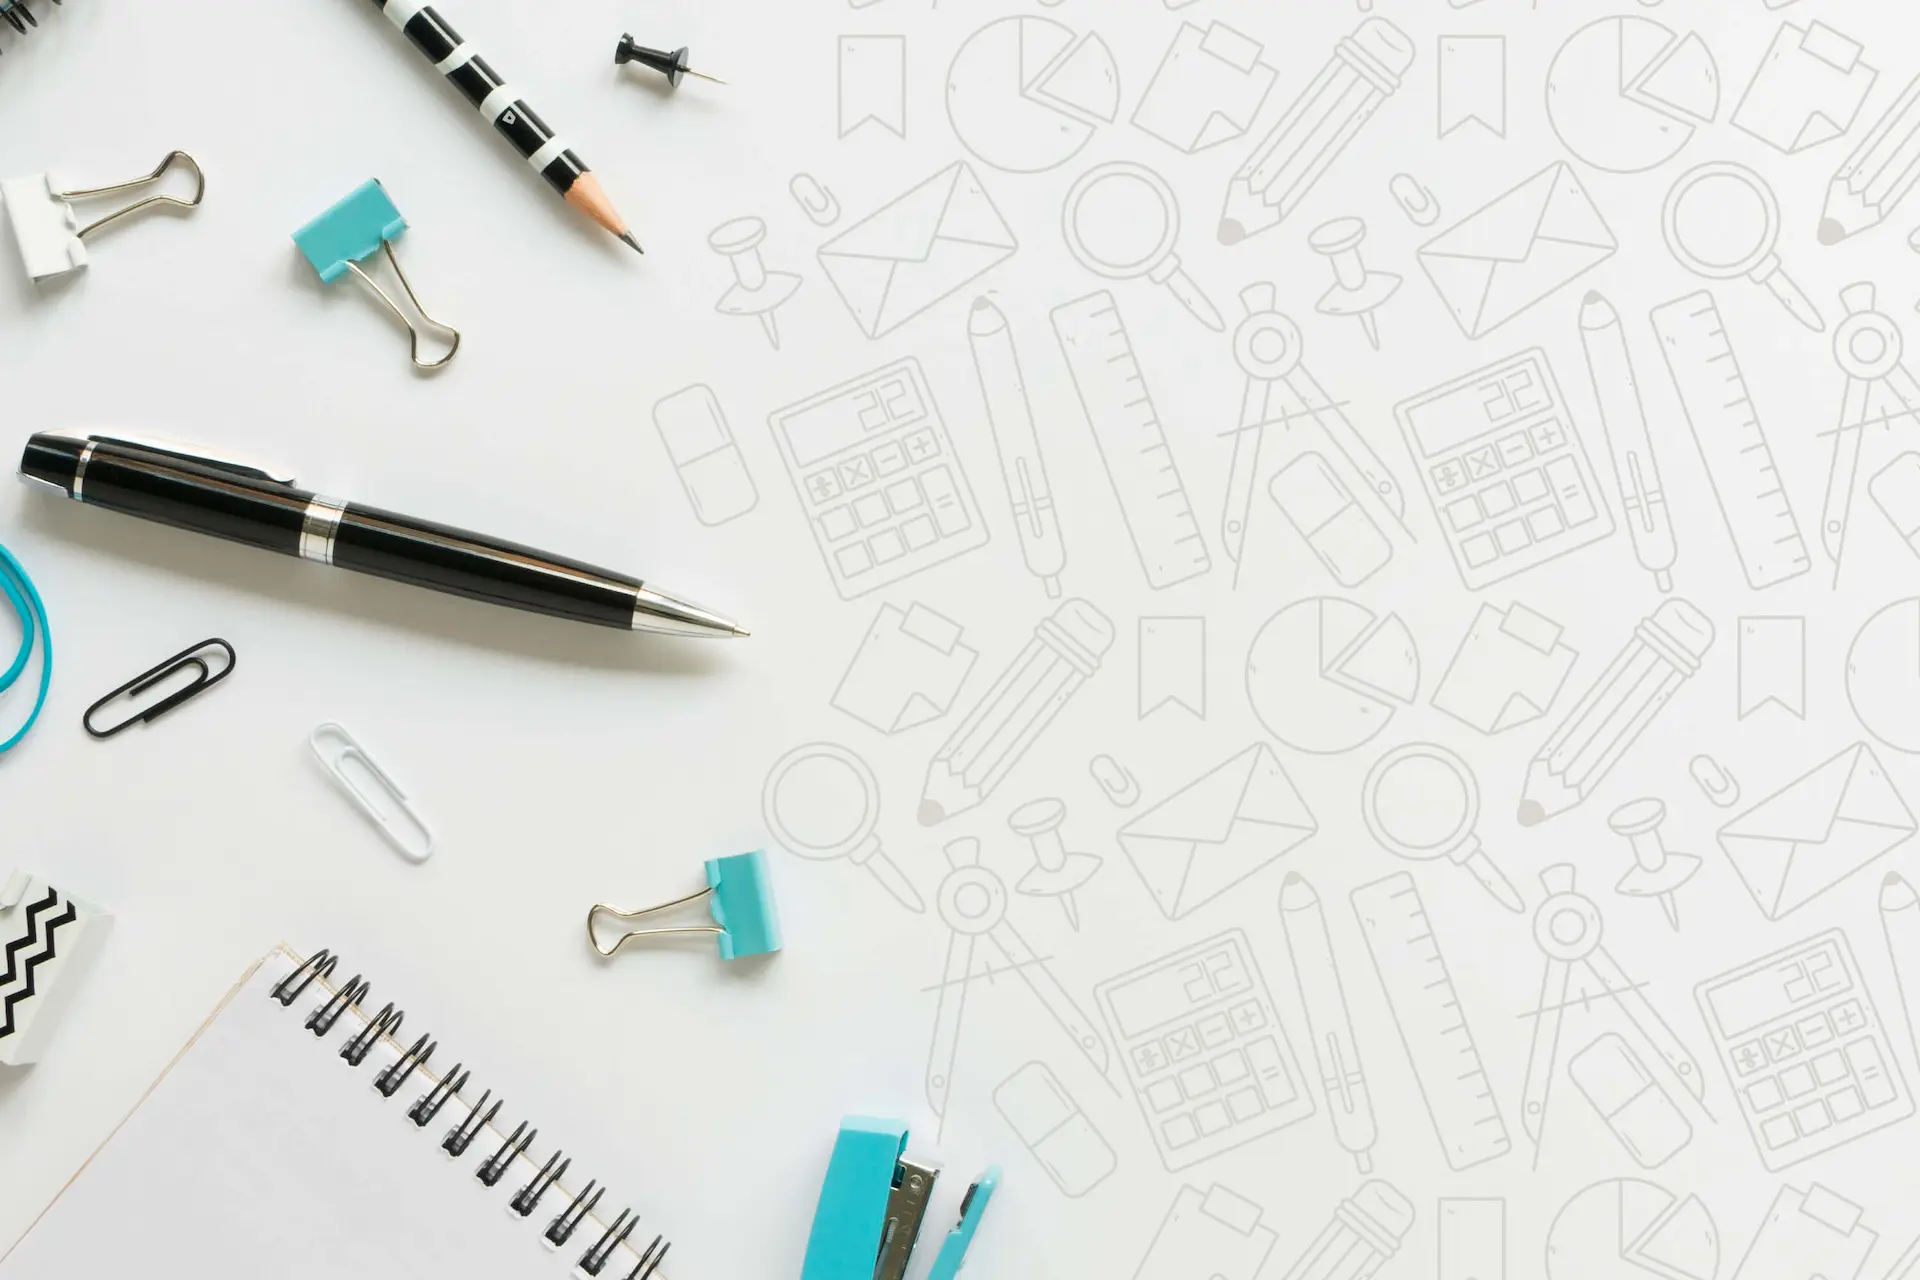
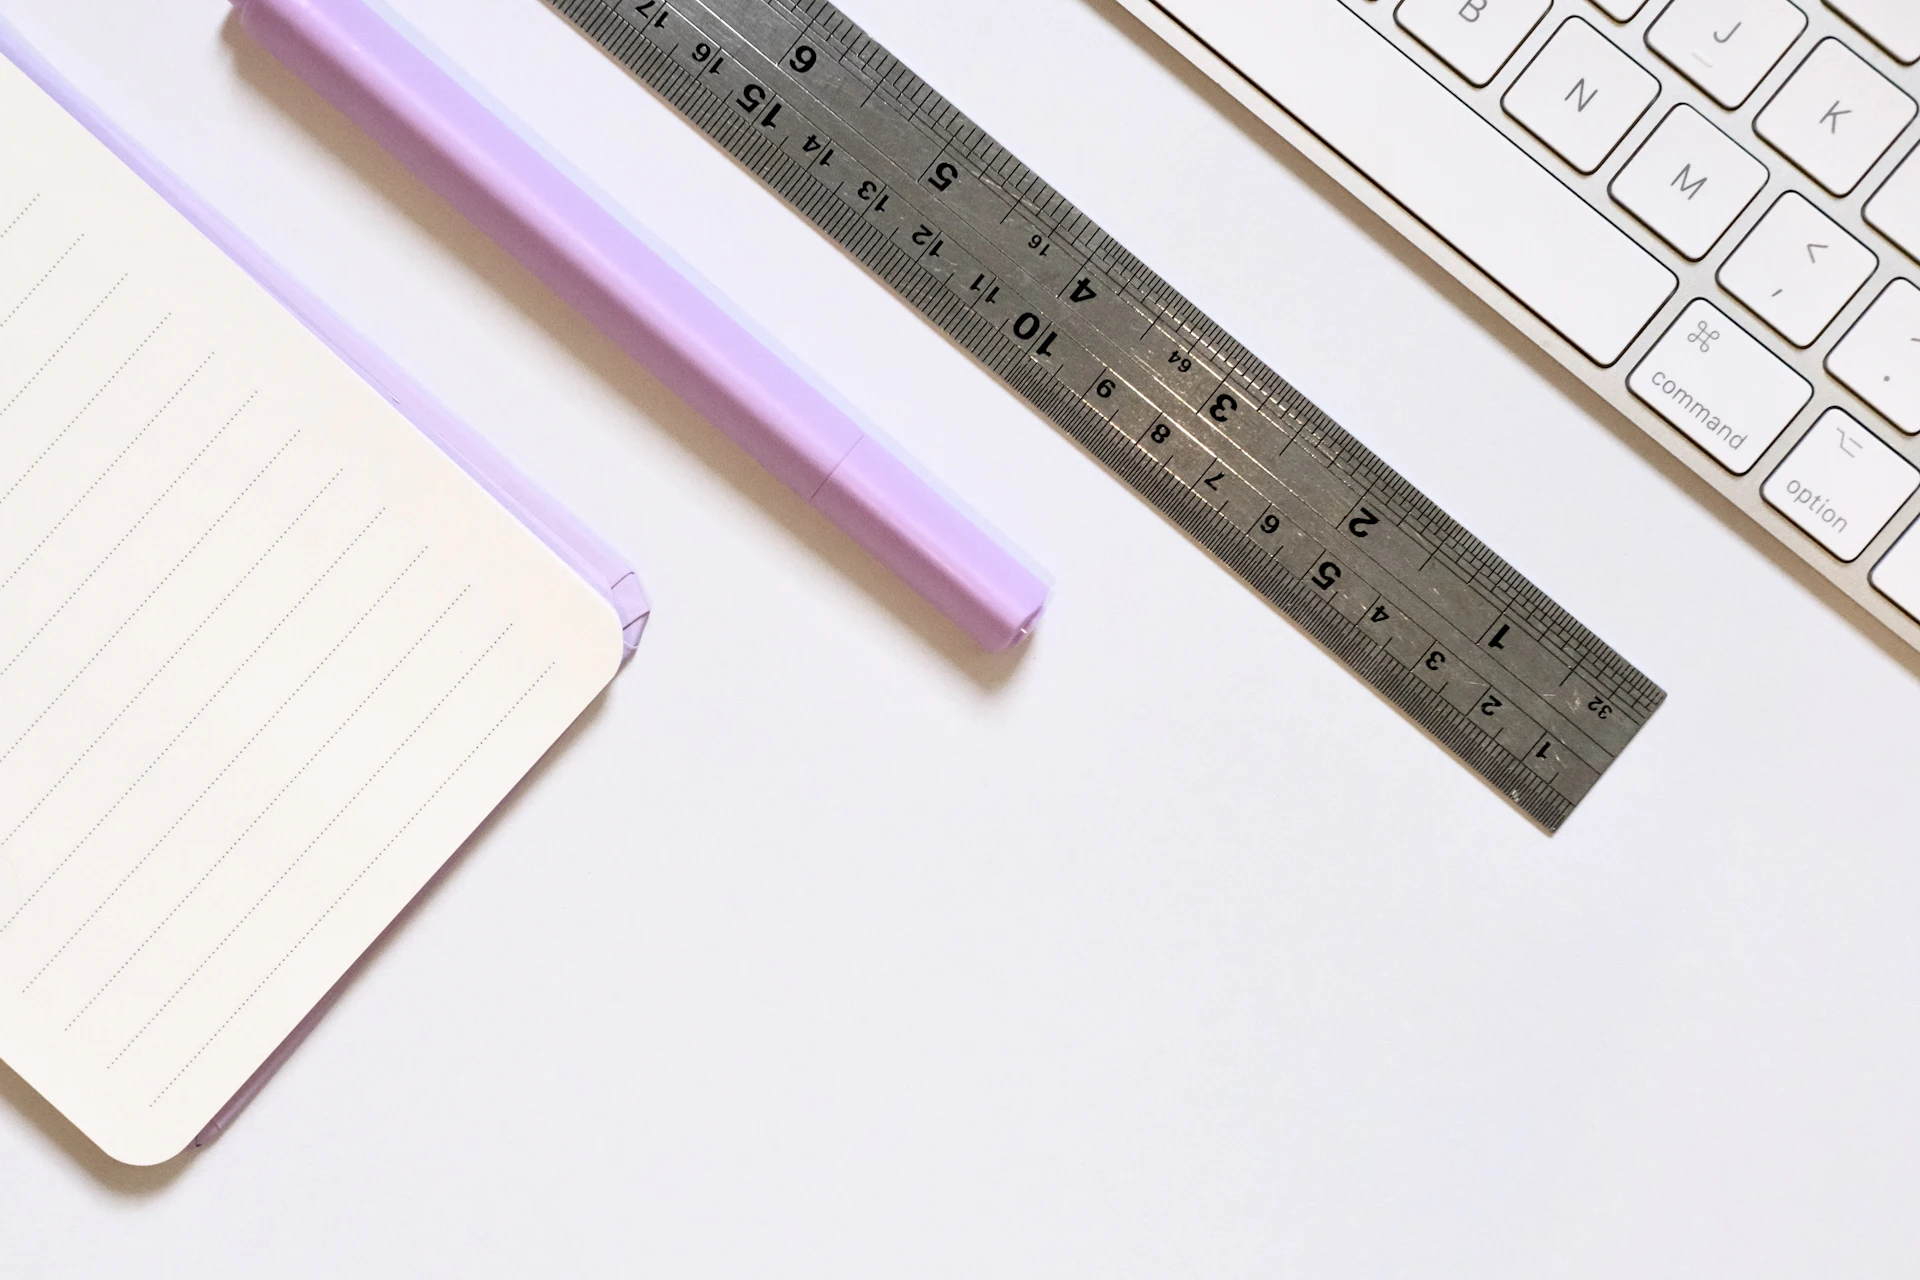
Fondos con licencia comprobable de Unsplash y créditos en los términos
- Bubble: burbujas iridiscentes (Alfred Kenneally)
- Find Max: montaña nevada en Gadmen (Denis Linine)
- Insertion: piedras apiladas, volteada horizontalmente (Sean Stratton); pasa de JPG a WebP
- Exámenes: cuaderno, regla y teclado (Jess Bailey)
- Créditos y enlace a la Licencia de Unsplash en terminos.html

diff --git a/terminos.html b/terminos.html
@@ -15,7 +15,7 @@
     <a class="regresar" href="/">&larr; Volver al inicio</a>
 
     <h1>Términos de Uso</h1>
-    <p class="actualizacion">Última actualización: 10 de noviembre de 2026</p>
+    <p class="actualizacion">Última actualización: 12 de noviembre de 2026</p>
 
     <section>
       <h2>1. Aceptación</h2>
@@ -130,6 +130,36 @@
         <li><strong>Roboto</strong> — tipografía de Google bajo SIL Open Font License 1.1.</li>
         <li>Componentes de interfaz adaptados de <strong>Uiverse.io</strong> — licencia MIT.</li>
       </ul>
+      <p>
+        Fotografías de fondo obtenidas de Unsplash bajo la
+        <a href="https://unsplash.com/es/licencia" target="_blank" rel="noopener noreferrer">Licencia de Unsplash</a>:
+      </p>
+      <ul>
+        <li>
+          Bubble Sort: burbujas iridiscentes, de
+          <a href="https://unsplash.com/es/@alken" target="_blank" rel="noopener noreferrer">Alfred Kenneally</a>
+          (<a href="https://unsplash.com/es/fotos/burbujas-iridiscentes-NHZUQR3d2VY" target="_blank" rel="noopener noreferrer">ver original</a>).
+        </li>
+        <li>
+          Find Max: montaña cubierta de nieve en Gadmen, Suiza, de
+          <a href="https://unsplash.com/es/@denislinine" target="_blank" rel="noopener noreferrer">Denis Linine</a>
+          (<a href="https://unsplash.com/es/fotos/montana-cubierta-de-nieve-durante-el-dia-W4o1oWx0k0g" target="_blank" rel="noopener noreferrer">ver original</a>).
+        </li>
+        <li>
+          Insertion Sort: piedras apiladas, de
+          <a href="https://unsplash.com/es/@seanstratton" target="_blank" rel="noopener noreferrer">Sean Stratton</a>
+          (<a href="https://unsplash.com/es/fotos/piedras-negras-apiladas-sobre-superficie-gris-ObpCE_X3j6U" target="_blank" rel="noopener noreferrer">ver original</a>);
+          la imagen se muestra volteada horizontalmente.
+        </li>
+        <li>
+          Evaluaciones: cuaderno, regla y teclado sobre superficie blanca, de
+          <a href="https://unsplash.com/es/@jessbaileydesigns" target="_blank" rel="noopener noreferrer">Jess Bailey</a>
+          (<a href="https://unsplash.com/es/fotos/cuaderno-regla-y-teclado-sobre-superficie-blanca-OXQVfxXORJ0" target="_blank" rel="noopener noreferrer">ver original</a>).
+        </li>
+      </ul>
+      <p>
+        El fondo de la página de inicio es un degradado creado para esta plataforma.
+      </p>
     </section>
 
     <section>

diff --git a/styles/algoritmos/Insertion.css b/styles/algoritmos/Insertion.css
@@ -11,7 +11,7 @@ body {
   margin: 0;
   padding: 0;
   min-height: 100vh;
-  background: url('../../imagenes/algoritmos/insertion.jpg') center/cover no-repeat fixed;
+  background: url('../../imagenes/algoritmos/insertion.webp') center/cover no-repeat fixed;
   color: #ffffff;
   font-family: 'Roboto', sans-serif;
   display: flex;
